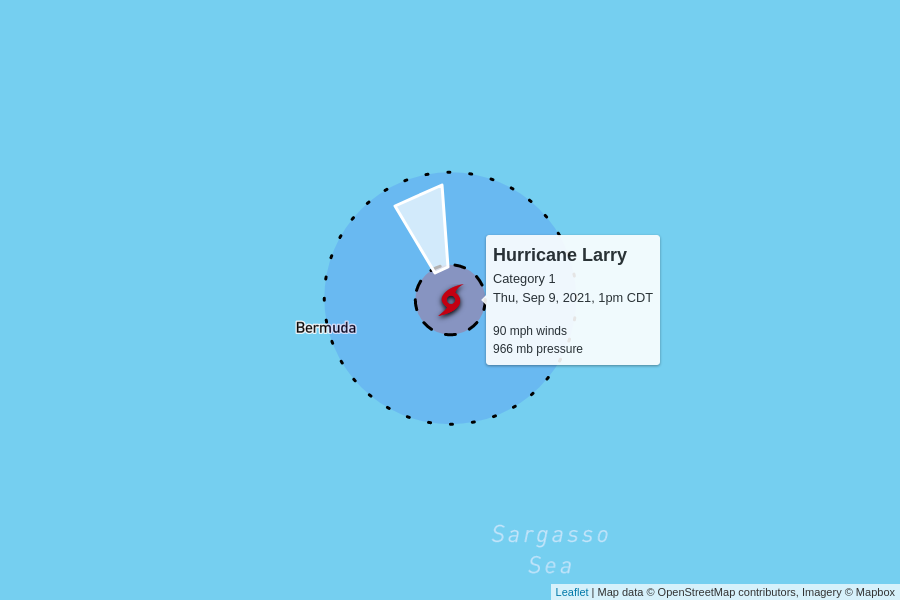
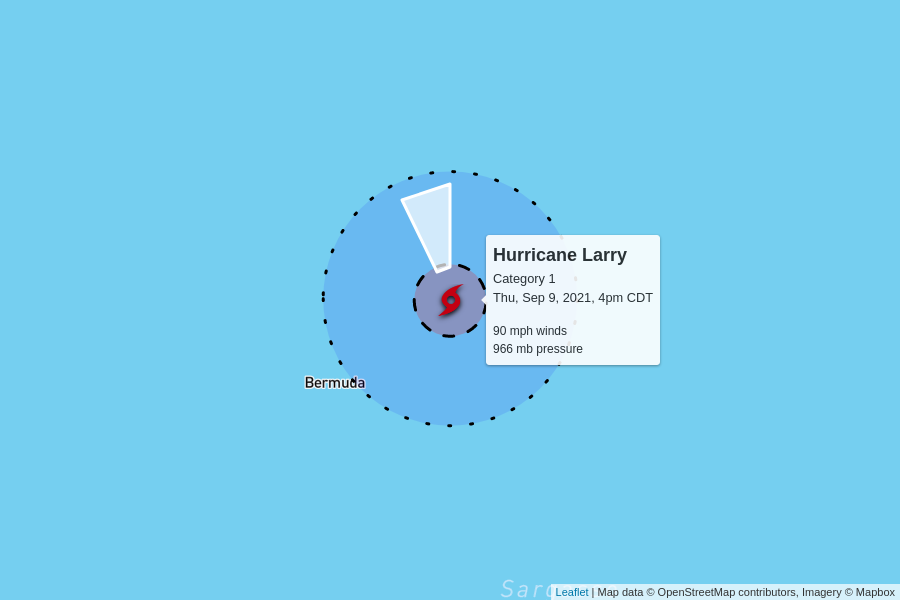
automatic update

diff --git a/docs/index.html b/docs/index.html
@@ -97,6 +97,50 @@
 
     <table>
       <tr>
+        <td colspan="6" class="storm category-1">
+          <h2>
+            Hurricane Larry - Category 1
+            <p class="updated">last updated <span data-time>2021-09-09T21:00:00.000Z</span></p>
+          </h2>
+        </td>
+      </tr>
+      
+      <tr>
+        <th class="spacer"></th>
+        <th>wind speed</th>
+        <th>central pressure</th>
+        <th>movement</th>
+        <th>data (CSV)</th>
+        <th>National Hurricane Center</th>
+      </tr>
+      <tr>
+        <td class="spacer"></td>
+        <td>90 mph</td>
+        <td>966 mb</td>
+        <td>
+          20 mph to the north-northwest
+          <br/>
+          <span style="display: inline-block; font-size: 1.5em; transform: rotate(345deg);">↑</span>
+        </td>
+        <td><a href="https://raw.githubusercontent.com/mgwalker/atlantic-hurricanes/main/data/csv/AL122021.csv">AL122021.csv</a></td>
+        <td><a href="https://www.nhc.noaa.gov/archive/2021/LARRY.shtml?">NHC advisories</a></td>
+      </tr>
+      <tr>
+        <td class="spacer">
+        <td colspan="5">
+          <figure>
+            <img src="AL122021.png">
+            <figcaption>
+              Map data &copy; <a href="https://www.openstreetmap.org/copyright">OpenStreetMap</a> contributors,
+              Imagery &copy; <a href="https://www.mapbox.com/">Mapbox</a> |
+              <a href="https://www.mapbox.com/map-feedback/" target="_blank">Improve this map</a>
+            </figcaption>
+          </figure>
+        </td>
+      </tr>
+      
+
+      <tr>
         <td colspan="6" class="storm category-0">
           <h2>
             Tropical Depression Mindy
@@ -130,50 +174,6 @@
         <td colspan="5">
           <figure>
             <img src="AL132021.png">
-            <figcaption>
-              Map data &copy; <a href="https://www.openstreetmap.org/copyright">OpenStreetMap</a> contributors,
-              Imagery &copy; <a href="https://www.mapbox.com/">Mapbox</a> |
-              <a href="https://www.mapbox.com/map-feedback/" target="_blank">Improve this map</a>
-            </figcaption>
-          </figure>
-        </td>
-      </tr>
-      
-
-      <tr>
-        <td colspan="6" class="storm category-1">
-          <h2>
-            Hurricane Larry - Category 1
-            <p class="updated">last updated <span data-time>2021-09-09T18:00:00.000Z</span></p>
-          </h2>
-        </td>
-      </tr>
-      
-      <tr>
-        <th class="spacer"></th>
-        <th>wind speed</th>
-        <th>central pressure</th>
-        <th>movement</th>
-        <th>data (CSV)</th>
-        <th>National Hurricane Center</th>
-      </tr>
-      <tr>
-        <td class="spacer"></td>
-        <td>90 mph</td>
-        <td>966 mb</td>
-        <td>
-          17 mph to the north-northwest
-          <br/>
-          <span style="display: inline-block; font-size: 1.5em; transform: rotate(340deg);">↑</span>
-        </td>
-        <td><a href="https://raw.githubusercontent.com/mgwalker/atlantic-hurricanes/main/data/csv/AL122021.csv">AL122021.csv</a></td>
-        <td><a href="https://www.nhc.noaa.gov/archive/2021/LARRY.shtml?">NHC advisories</a></td>
-      </tr>
-      <tr>
-        <td class="spacer">
-        <td colspan="5">
-          <figure>
-            <img src="AL122021.png">
             <figcaption>
               Map data &copy; <a href="https://www.openstreetmap.org/copyright">OpenStreetMap</a> contributors,
               Imagery &copy; <a href="https://www.mapbox.com/">Mapbox</a> |
